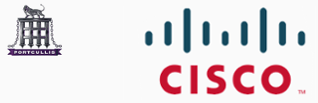
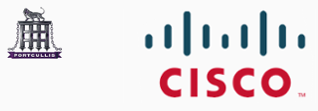
various changes

diff --git a/index.html b/index.html
@@ -84,7 +84,7 @@
                                 <h3>
                                     <div id="year">August 2016 - July 2017</div>    |    Intern Security Consultant | Cisco Systems, Inc
                                 </h3>
-                                <img src="image/portcullis-cisco.png" class=" img-responsive col-sm-4">
+                                <img src="image/portcullis-cisco.png" class="col-sm-4">
                                 <div class="courses col-sm-8">
                                     <div class="row course-list-text">
                                         <p>
